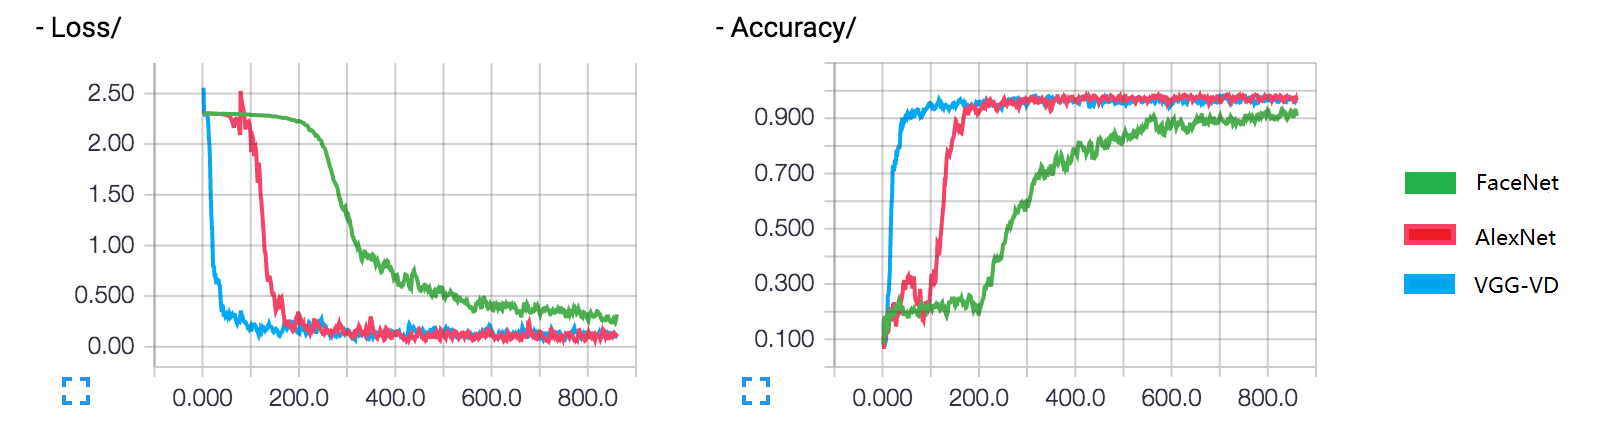
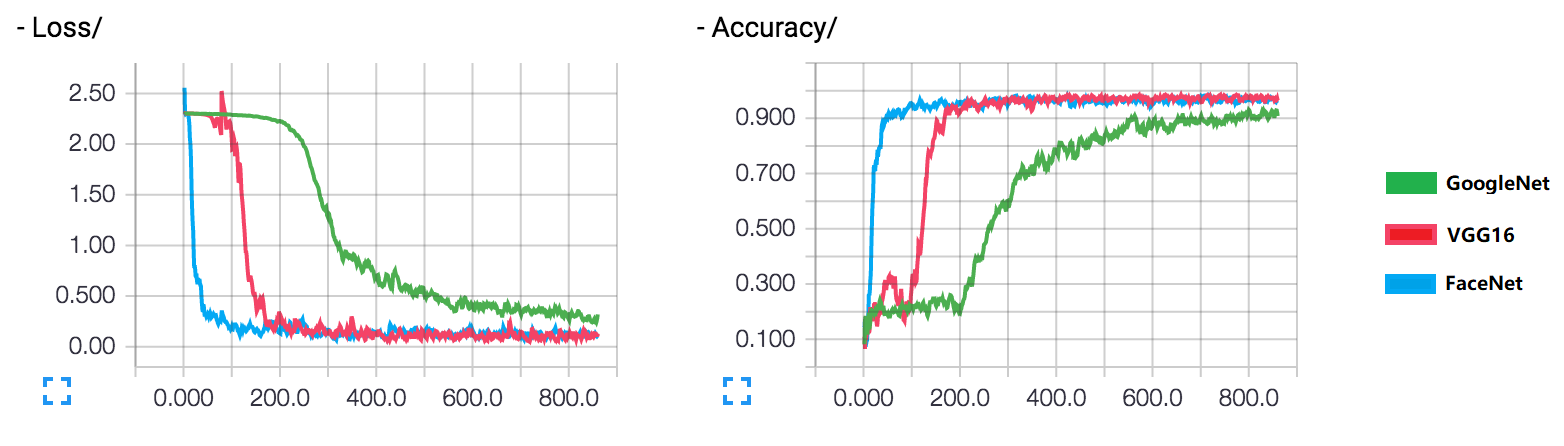
Update legend of experiment result.

diff --git a/webportal/src/app/user/user-profile/user-profile.component.js b/webportal/src/app/user/user-profile/user-profile.component.js
@@ -94,7 +94,7 @@ const myAssestData = [
 
 const experimentData = [
   {
-    name: 'FaceNet on Pigs',
+    name: 'Model Comparison on Pigs',
     type: 'BATCH',
     duration: '10h 41m 15s',
     time: '7/25/2018 3:51:04 PM',
@@ -103,7 +103,7 @@ const experimentData = [
     visualization: '/assets/img/loss_acc_per_Model.png',
   },
   {
-    name: 'ImageNet Benchmark',
+    name: 'Dataset Comparison on FaceNet',
     type: 'BATCH',
     duration: '15h 12m 5s',
     time: '6/28/2018 3:51:04 PM',
